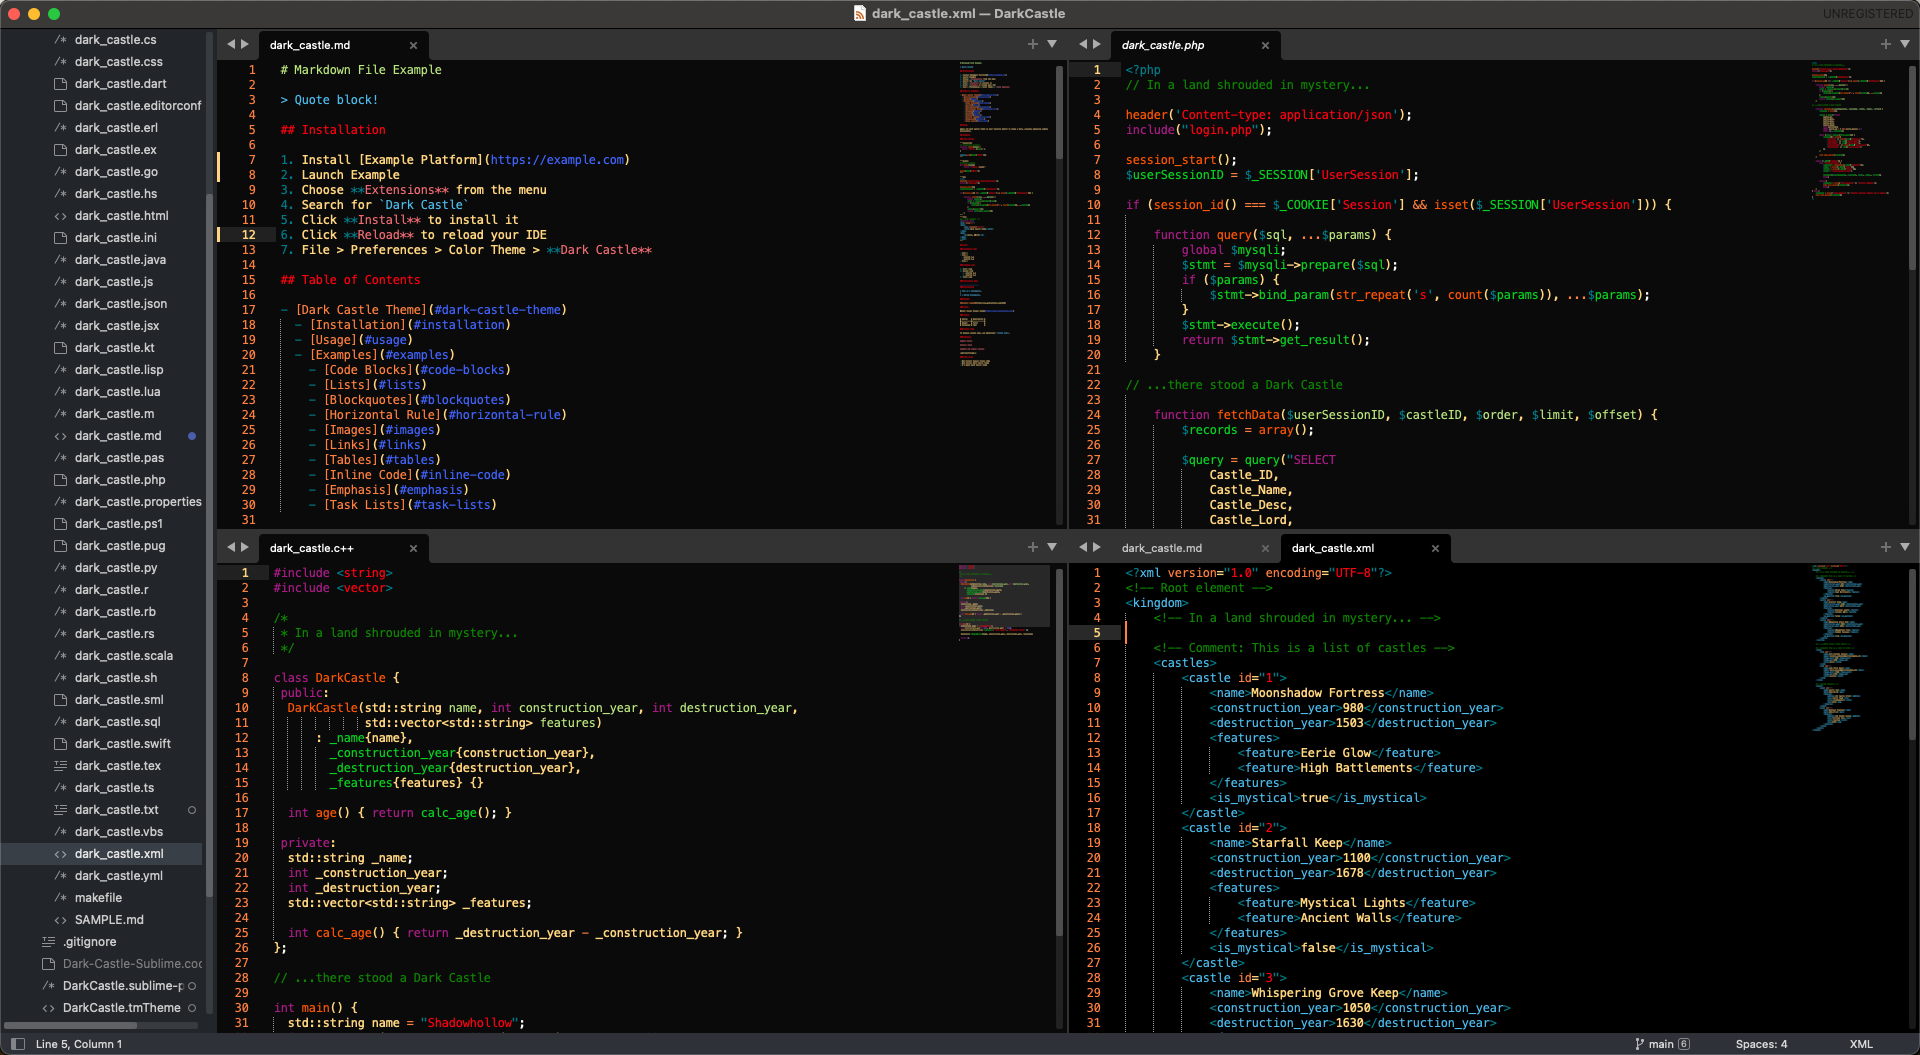
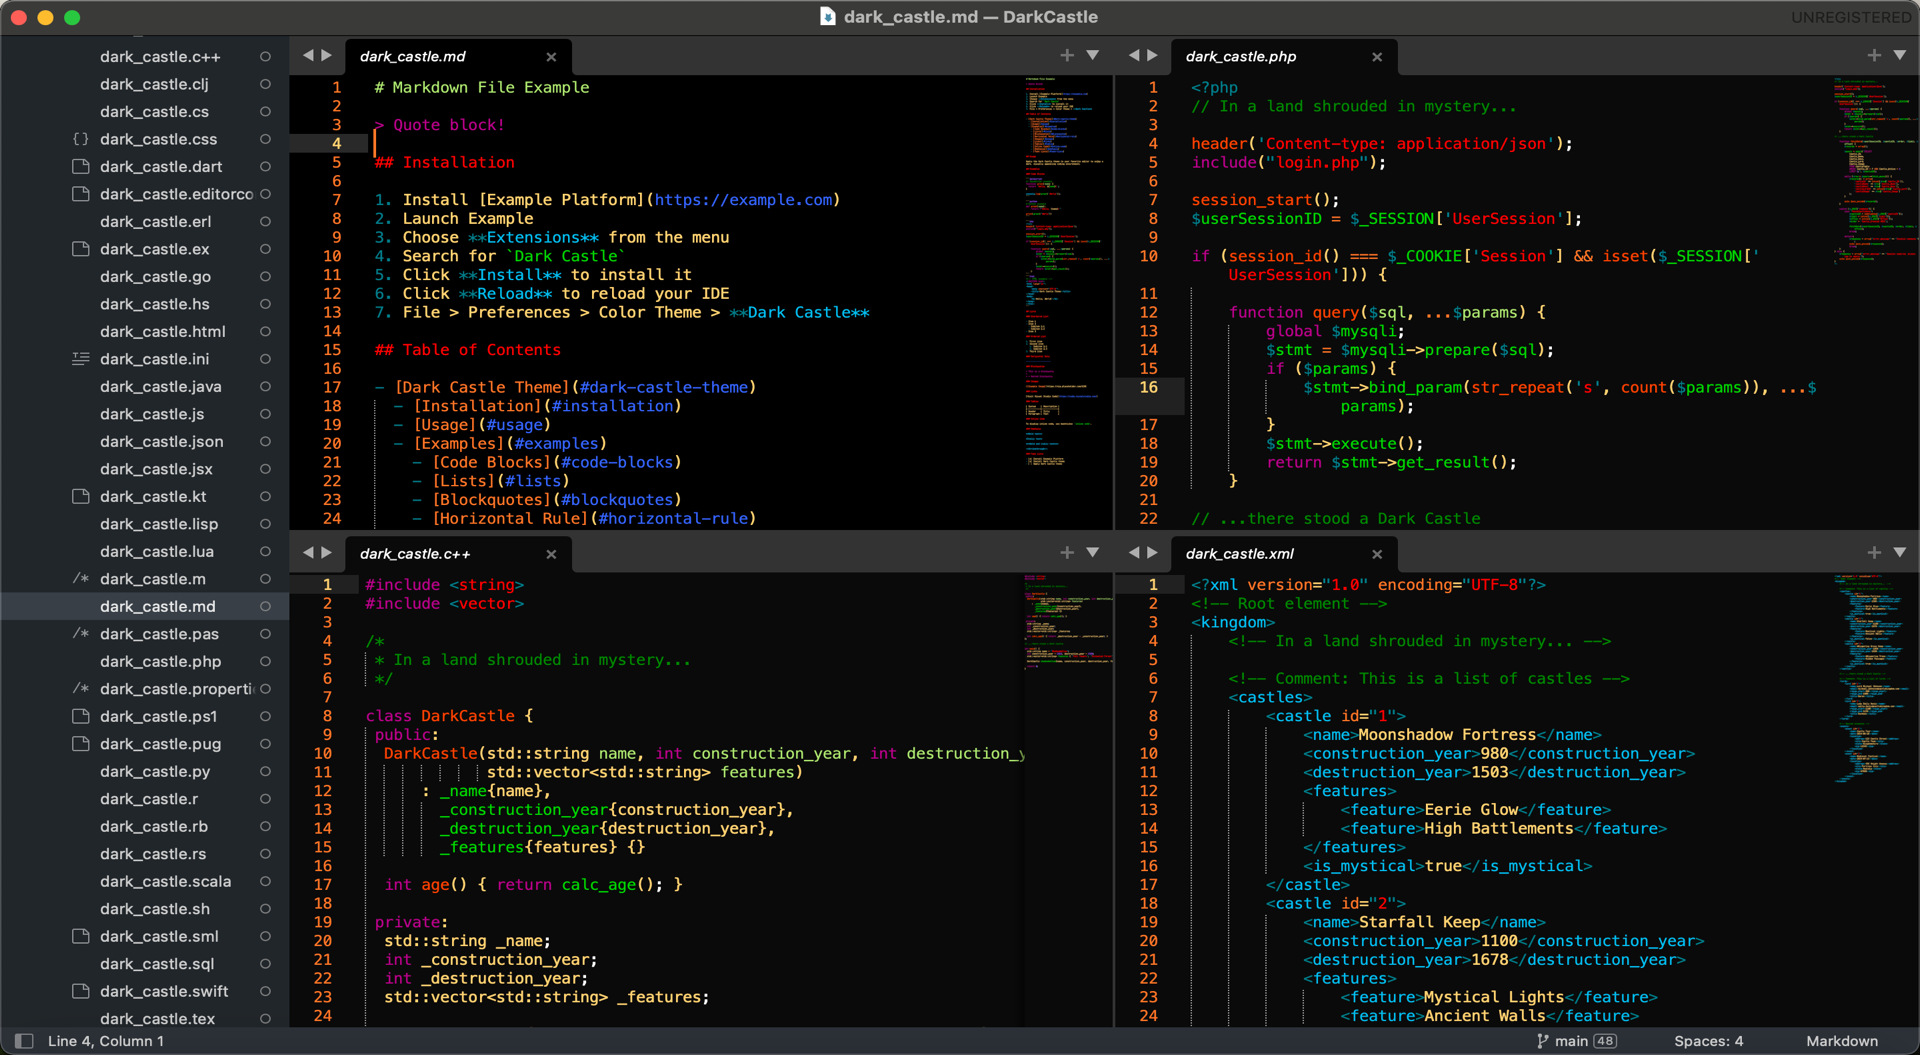
Update theme for Markdown color palette

Changed region(s): [[0.0, 0.0, 1.0, 1.0], [0.875, 0.2123, 0.9062, 0.273]]

diff --git a/.github/CHANGELOG.md b/.github/CHANGELOG.md
@@ -5,6 +5,13 @@ All notable changes to this project will be documented in this file.
 The format is based on [Keep a Changelog](https://keepachangelog.com/en/1.1.0/),
 and this project adheres to [Semantic Versioning](https://semver.org/spec/v2.0.0.html).
 
+## [1.0.2] - 2024-06-20
+
+### Changed
+
+- Updated `README`.
+- Updated theme for `Markdown` color palette.
+
 ## [1.0.1] - 2024-06-19
 
 ### Removed
@@ -17,5 +24,6 @@ and this project adheres to [Semantic Versioning](https://semver.org/spec/v2.0.0
 
 - Official release of **Dark Castle Theme for Sublime**.
 
+[1.0.2]: https://github.com/scottgriv/Dark-Castle-Sublime/compare/v1.0.1...v1.0.2
 [1.0.1]: https://github.com/scottgriv/Dark-Castle-Sublime/compare/v1.0.0...v1.0.1
 [1.0.0]: https://github.com/scottgriv/Dark-Castle-Sublime/releases/tag/v1.0.0

diff --git a/README.md b/README.md
@@ -3,7 +3,7 @@
         <img src="./docs/images/icon.png" width="250" height="250"/>
     </a>
 </div>
-<h1 align="center">Dark Castle Theme for     
+<h1 align="center">Dark Castle for     
     <a href="https://www.sublimetext.com/" target="_blank">
     Sublime Text
     </a>
